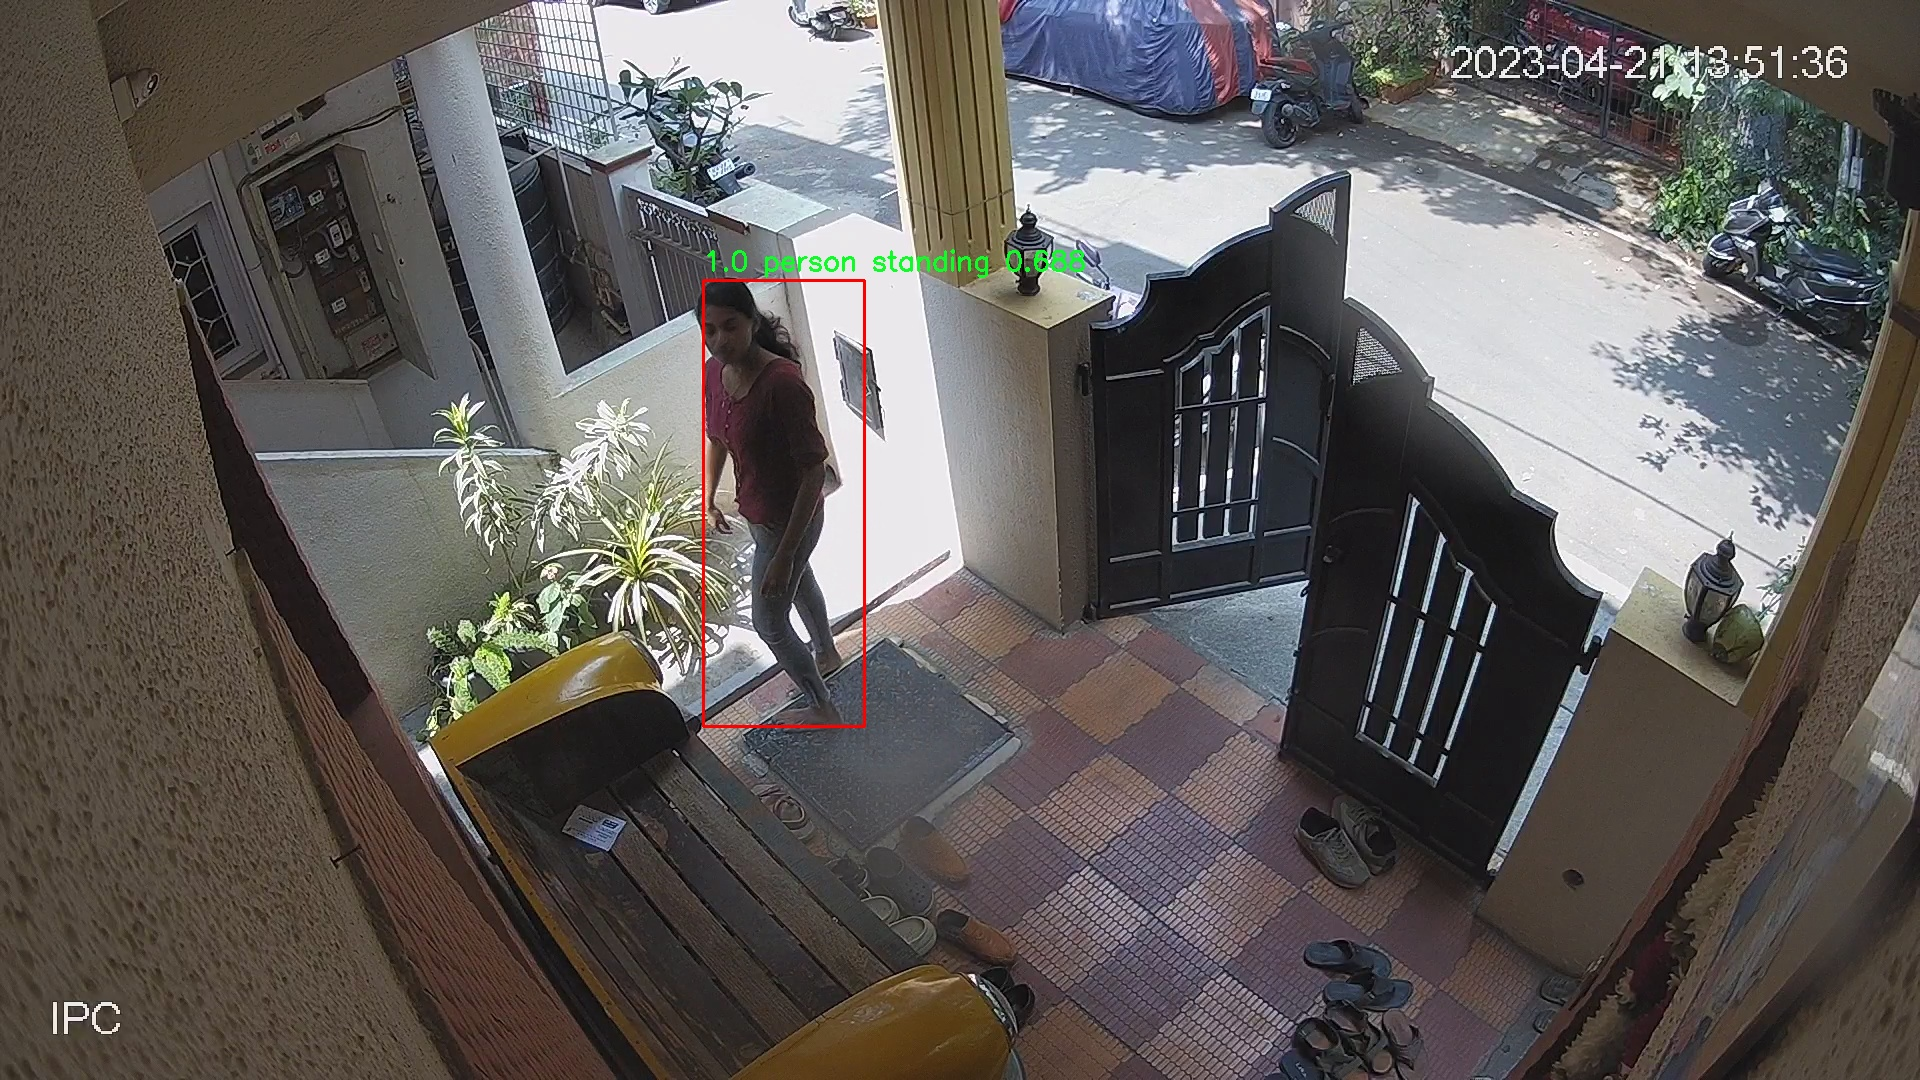
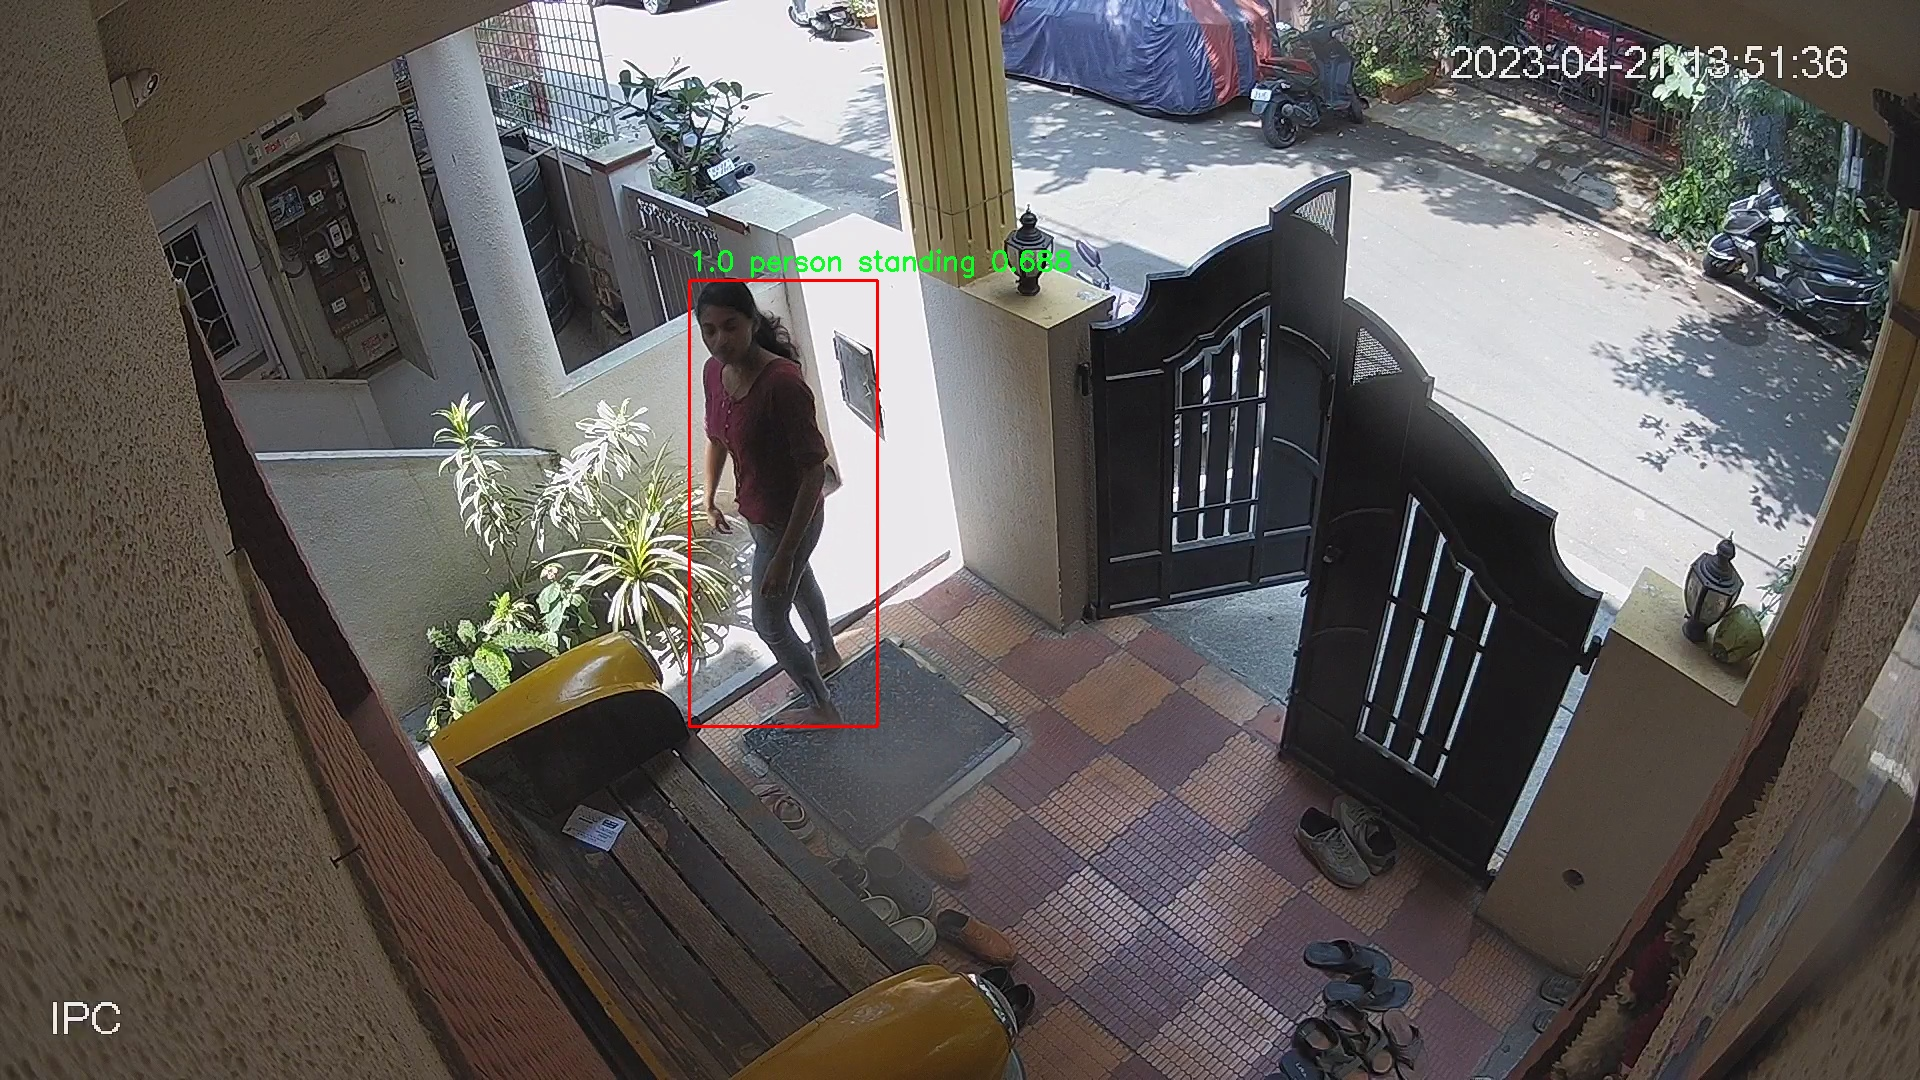
updated crops logic in track.py

Changed region(s): [[0.3438, 0.2139, 0.5625, 0.6722]]

diff --git a/track.py b/track.py
@@ -118,7 +118,7 @@ def track_yolo(im2):
         class_list = [clssdict[each] for each in activity_results[0].boxes.cls.tolist()]
         bbox_list = activity_results[0].boxes.xyxy.tolist()
 
-        #create crops and create cid for crop img
+        #create crops 
         crops = []
         for box in bbox_list:
             crop = save_one_box(box, im2, save=False)
@@ -130,7 +130,7 @@ def track_yolo(im2):
         class_list1 = []
         bbox_list1 = []
         conf_list = []
-
+        crops1 = []
         #filter the generated lists 
         for i in range(0,len(conf_list1)):
             print(conf_list1[i])
@@ -139,11 +139,12 @@ def track_yolo(im2):
                 id_list1.append(id_list[i])
                 class_list1.append(class_list[i])
                 bbox_list1.append(bbox_list[i])
+                crops1.append(crops[i])
 
         id_list = id_list1
         class_list = class_list1
         bbox_list = bbox_list1
-
+        crops = crops1
         #plots bbox for detections whose confidence is more than 0.50
         inferenced_im2 = plot_bbox(bbox_list,conf_list,id_list,class_list,im2)
     
